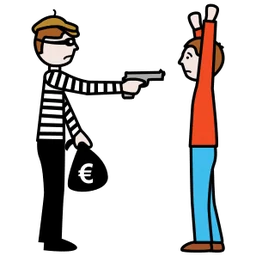
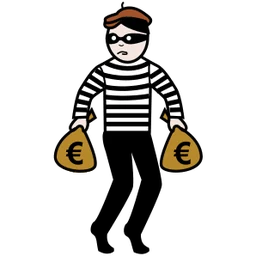
update

diff --git a/sw.js b/sw.js
@@ -1,5 +1,5 @@
 // 離線快取:改版時把 VERSION 加一
-const VERSION = 'kq-enc-v8';
+const VERSION = 'kq-enc-v9';
 const FILES = ['./', 'index.html', 'manifest.webmanifest', 'icons/icon.svg', 'icons/icon-180.png', 'icons/icon-192.png', 'icons/icon-512.png'];
 self.addEventListener('install', e => { e.waitUntil(caches.open(VERSION).then(c => c.addAll(FILES)).then(() => self.skipWaiting())); });
 self.addEventListener('activate', e => { e.waitUntil(caches.keys().then(ks => Promise.all(ks.filter(k => k !== VERSION).map(k => caches.delete(k)))).then(() => self.clients.claim())); });
